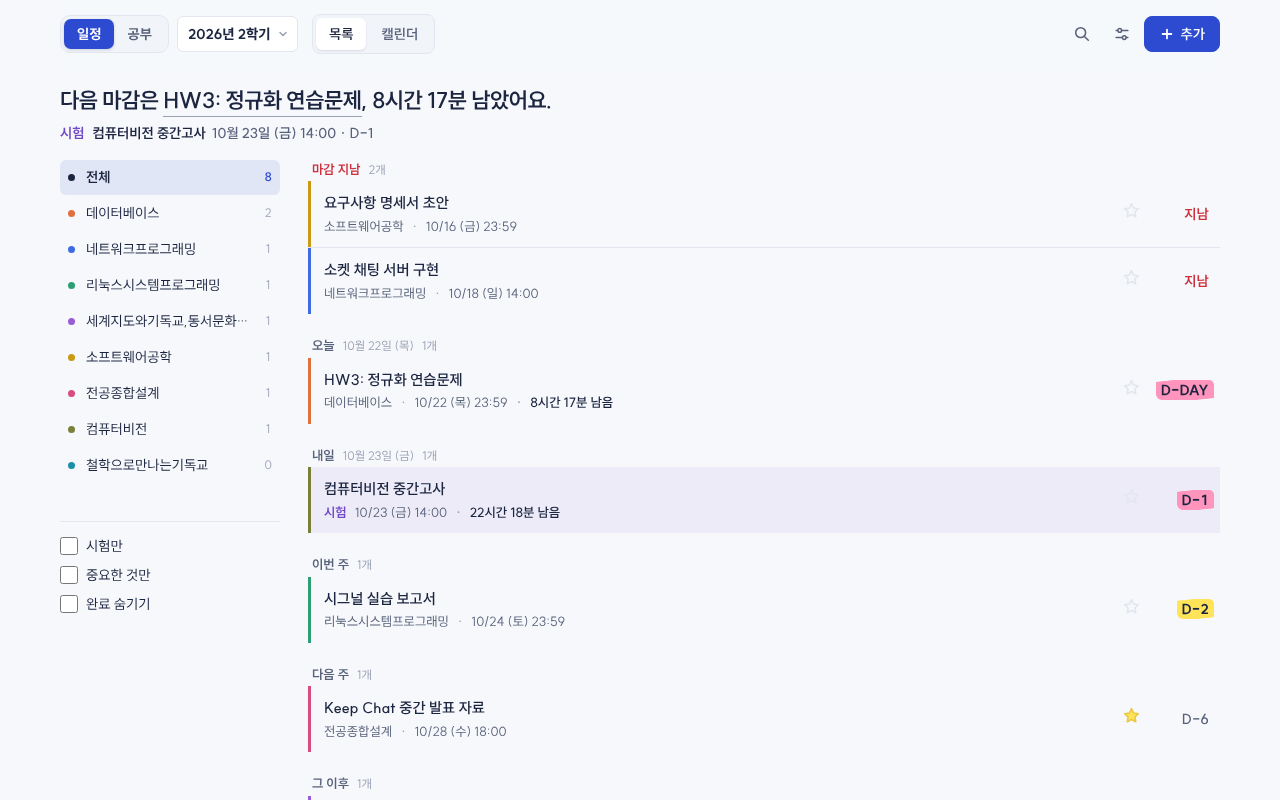
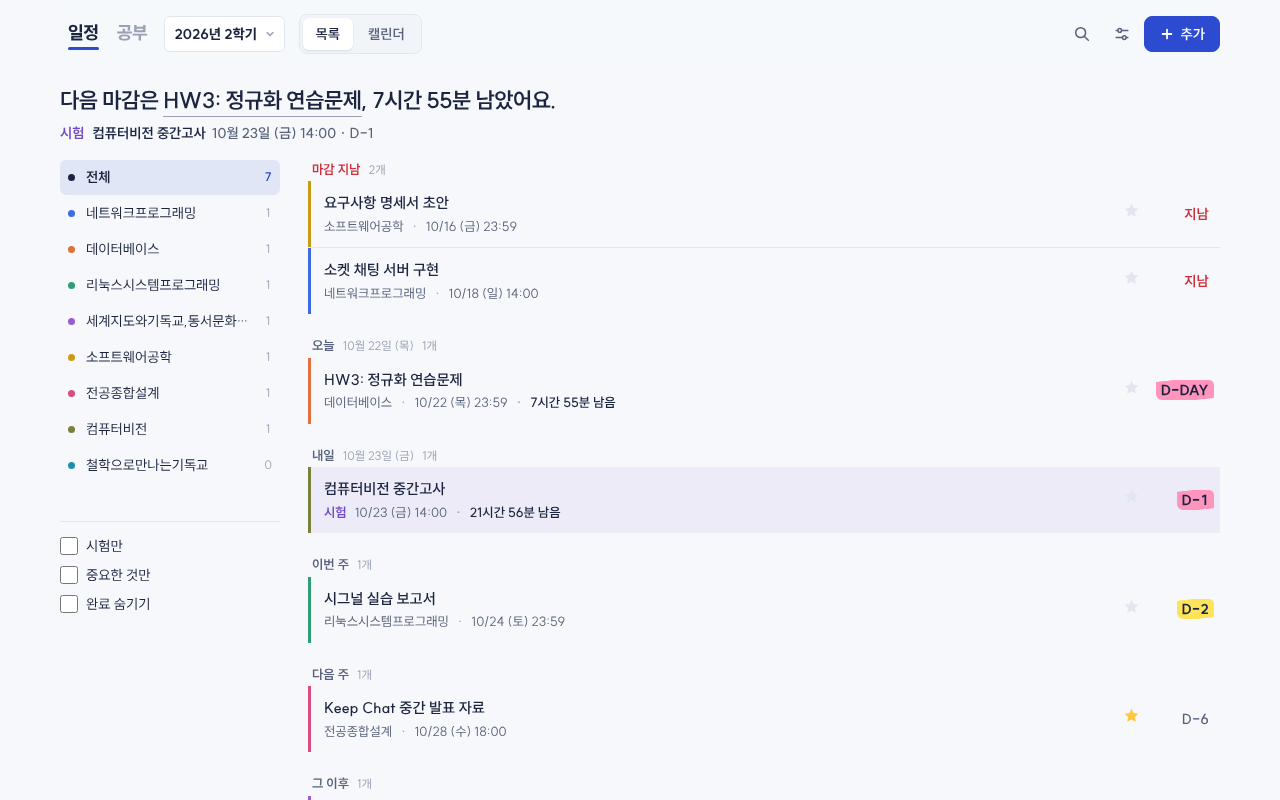
fix: 과목 개수·별·설정 스크롤 고치고 할 일 추가, 일정·공부를 글자 탭으로
- 과목 목록 개수에서 끝난 시험 빼기
- 별은 테두리 없이 채운 별만 (꺼짐 옅은 회색 · 켜짐 노랑)
- 추가 화면에 '할 일' 종류 (단축키 T), dday_upsert가 kind todo 저장
- 일정 · 공부는 큰 글자 탭으로 바꿔 목록 · 캘린더 탭과 겹쳐 보이지 않게
- 설정 본문의 flex 줄어듦 때문에 백업 · 단축키가 잘리던 것 수정
- 오늘 공부의 D-7 항목을 과목 | 이름 | D-day | ▶ 로

Claude-Session: https://claude.ai/code/session_01VYtpNtxSMGWfGLeovZEFXd

diff --git a/assets/js/app.js b/assets/js/app.js
@@ -237,10 +237,11 @@ function renderNext() {
 /* ───── 왼쪽 필터 ───── */
 function subjectsWithCounts() {
   const map = new Map();
+  const now = new Date();
   for (const t of scopedTasks()) {
     const k = t.subject || '';
     const v = map.get(k) || { total: 0, pending: 0 };
-    v.total++; if (!t.done) v.pending++;
+    v.total++; if (groupOf(t, now) !== 'done') v.pending++;   // 끝난 시험은 남은 일로 세지 않음
     map.set(k, v);
   }
   const sorted = [...map.entries()].sort((a, b) => (b[1].pending - a[1].pending) || a[0].localeCompare(b[0], 'ko'));
@@ -254,7 +255,8 @@ function renderRail() {
   const rail = $('#rail');
   const cur = state.prefs.subject;
   const subjects = subjectsWithCounts();
-  const pendingAll = scopedTasks().filter(t => !t.done).length;
+  const now = new Date();
+  const pendingAll = scopedTasks().filter(t => groupOf(t, now) !== 'done').length;
 
   const item = (label, value, count, color) => h('li', null,
     h('button', {
@@ -401,9 +403,12 @@ function renderView() {
   document.body.classList.toggle('study-mode', studying);
   if (studying) document.body.classList.remove('search-open');
   $('#modeLabel').textContent = studying ? '공부' : '일정';
-  $('#modeBtn').setAttribute('aria-checked', studying ? 'true' : 'false');
-  $('#modeBtn').setAttribute('aria-label', studying ? '공부 모드 · 눌러서 일정으로' : '일정 모드 · 눌러서 공부로');
-  $$('#modeBtn .ms-opt').forEach(o => o.classList.toggle('on', o.dataset.m === (studying ? 'study' : 'plan')));
+  $('#modeBtn').dataset.mode = studying ? 'study' : 'plan';
+  $$('#modeBtn .ms-opt').forEach(o => {
+    const on = o.dataset.m === (studying ? 'study' : 'plan');
+    o.classList.toggle('on', on);
+    o.setAttribute('aria-selected', on ? 'true' : 'false');
+  });
   $('#planViews').hidden = studying;
   $('#studyViews').hidden = !studying;
   $('#btnFriends').hidden = !studying;
@@ -695,9 +700,9 @@ function setKind(kind, { isNew }) {
   const exam = kind === 'exam';
   $('#panel').classList.toggle('is-exam', exam);
   $$('#kindPicker button').forEach(b => b.setAttribute('aria-checked', b.dataset.kind === kind ? 'true' : 'false'));
-  const editing = !isNew && state.tasks.find(x => x.id === ui.editingId);
-  $('#panelTitle').textContent = isNew ? (exam ? '새 시험' : '새 과제') : (exam ? '시험 수정' : editing && editing.kind === 'todo' ? '할 일' : '과제 수정');
-  $('#fTitle').placeholder = exam ? '시험 이름' : '과제 이름';
+  const name = exam ? '시험' : kind === 'todo' ? '할 일' : '과제';
+  $('#panelTitle').textContent = isNew ? `새 ${name}` : `${name} 수정`;
+  $('#fTitle').placeholder = exam ? '시험 이름' : kind === 'todo' ? '할 일 (예: 3주차 강의 듣기)' : '과제 이름';
   $('#fMemo').placeholder = exam ? '시험 범위, 준비물' : '메모';
   renderDoneBtn();
   // 새로 만들 때 시각 기본값만 템플릿에 맞춤 (사용자가 바꾼 값은 유지)
@@ -732,7 +737,7 @@ function openPanel(task, presetDay, kind) {
   $('#fLocation').value = task ? task.location || '' : '';
   $('#fEnd').value = task && task.endAt ? toTimeInput(new Date(task.endAt)) : '';
   refreshPickLabels();
-  setKind(task ? (isExam(task) ? 'exam' : 'assignment') : (kind || 'assignment'), { isNew: !task });
+  setKind(task ? (isExam(task) ? 'exam' : task.kind === 'todo' ? 'todo' : 'assignment') : (kind || 'assignment'), { isNew: !task });
   $('#kindPicker').hidden = !!(task && task.source === 'canvas');   // 스마트캠퍼스 과제는 종류 고정
   $('#fStudyBtn').hidden = !task || !!task.done || groupOf(task) === 'done';
   $('#examNames').replaceChildren(...EXAM_NAMES.map(n => h('button', {
@@ -793,14 +798,14 @@ function renderDoneBtn() {
   const done = $('#fDone').checked;
   btn.classList.toggle('is-done', done);
   const t = state.tasks.find(x => x.id === ui.editingId);
-  btn.textContent = done ? '완료 취소' : (t && (t.missing || t.kind === 'todo') ? '완료로 표시' : '제출 완료');
+  btn.textContent = done ? '완료 취소' : ((t && t.missing) || ui.kind === 'todo' ? '완료로 표시' : '제출 완료');
 }
 
 function savePanel() {
   const title = $('#fTitle').value.trim();
   const msg = $('#panelMsg');
   msg.className = 'msg err';
-  if (!title) { msg.textContent = '과제명을 적어 주세요'; $('#fTitle').focus(); return; }
+  if (!title) { msg.textContent = ui.kind === 'exam' ? '시험 이름을 적어 주세요' : ui.kind === 'todo' ? '할 일을 적어 주세요' : '과제명을 적어 주세요'; $('#fTitle').focus(); return; }
   if (!$('#fDate').value) { msg.textContent = '날짜를 골라 주세요'; $('#fDateBtn').focus(); return; }
   const due = new Date(`${$('#fDate').value}T${$('#fTime').value || '23:59'}`);
   if (isNaN(due)) { msg.textContent = '마감 날짜를 다시 확인해 주세요'; return; }
@@ -813,7 +818,7 @@ function savePanel() {
     endAt = end.toISOString();
   }
   const fields = {
-    kind: exam ? 'exam' : (state.tasks.find(t => t.id === ui.editingId)?.kind === 'todo' ? 'todo' : 'assignment'),
+    kind: exam ? 'exam' : ui.kind === 'todo' ? 'todo' : 'assignment',
     title: title.slice(0, 200),
     subject: subjPick.value.slice(0, 40),
     due: due.toISOString(),
@@ -1047,7 +1052,7 @@ function bind() {
     renderView();
   });
   $$('.views button').forEach(b => b.addEventListener('click', () => setView(b.dataset.view)));
-  $('#modeBtn').addEventListener('click', toggleMode);
+  $$('#modeBtn .ms-opt').forEach(o => o.addEventListener('click', () => { if ((o.dataset.m === 'study') !== (state.prefs.mode === 'study')) toggleMode(); }));
   $('#btnFriends').addEventListener('click', openFriends);
   $('#friendsClose').addEventListener('click', () => $('#friendsDialog').close());
   $('#search').addEventListener('input', e => { ui.query = e.target.value; renderView(); });
@@ -1233,6 +1238,7 @@ function bind() {
     if (isStudying() && studyKey(e)) return;
     if (e.key === 'n' || e.key === 'N') { e.preventDefault(); openPanel(null, null, 'assignment'); }
     else if (e.key === 'e' || e.key === 'E') { e.preventDefault(); openPanel(null, null, 'exam'); }
+    else if (e.key === 't' || e.key === 'T') { e.preventDefault(); openPanel(null, null, 'todo'); }
     else if (e.key === '/' && !isStudying()) { e.preventDefault(); openSearch(); }
     else if (e.key === 's' || e.key === 'S') toggleMode();
     else if (e.key === '1') setView(isStudying() ? 'today' : 'list');

diff --git a/assets/style.css b/assets/style.css
@@ -1592,24 +1592,24 @@ svg.filled { fill: currentColor; stroke: none; }
 .cr-move svg { width: 16px; height: 16px; }
 
 /* ═════ 일정 / 공부 전환: 두 칸 스위치, 지금 모드가 색으로 칠해짐 ═════ */
-.mode-switch {
-  position: relative; flex-shrink: 0; display: inline-grid; grid-template-columns: 1fr 1fr; align-items: center;
-  height: 38px; padding: 3px; border: 1px solid var(--rule); border-radius: 10px; background: var(--sheet-2);
-  cursor: pointer; font: 750 14px var(--font);
+/* 일정 · 공부: 보기 탭(목록 · 캘린더)과 겹쳐 보이지 않게 큰 글자 두 개로 (지금 모드만 진하게 + 밑줄) */
+.mode-tabs { display: inline-flex; align-items: center; gap: 2px; }
+.ms-opt {
+  position: relative; border: 0; background: none; cursor: pointer; font: inherit;
+  padding: 4px 8px 6px; font-size: 18px; font-weight: 800; letter-spacing: -0.02em; line-height: 1.2;
+  color: var(--pencil-2); border-radius: 8px; transition: color 150ms;
 }
-.mode-switch::before {
-  content: ''; position: absolute; top: 3px; bottom: 3px; left: 3px; width: calc(50% - 3px); border-radius: 7px;
-  background: var(--pen); box-shadow: 0 1px 3px rgba(28, 37, 64, 0.18); transition: transform 180ms ease, background-color 180ms;
+.ms-opt:hover { color: var(--pencil); }
+.ms-opt.on { color: var(--ink); cursor: default; }
+.ms-opt::after {
+  content: ""; position: absolute; left: 8px; right: 8px; bottom: 0; height: 3px; border-radius: 2px;
+  background: var(--pen); transform: scaleX(0); transition: transform 180ms;
 }
-.mode-switch[aria-checked="true"]::before { transform: translateX(100%); background: var(--green); }
-.ms-opt { position: relative; z-index: 1; padding: 0 13px; text-align: center; line-height: 30px; color: var(--pencil); transition: color 180ms; }
-.ms-opt.on { color: #fff; }
-:root[data-theme="dark"] .ms-opt.on { color: #10141F; }
-@media (prefers-color-scheme: dark) { :root:not([data-theme="light"]) .ms-opt.on { color: #10141F; } }
-.mode-switch:hover .ms-opt:not(.on) { color: var(--ink); }
-.mode-switch:focus-visible { outline: 2px solid var(--pen); outline-offset: 2px; }
-@media (max-width: 640px) { .ms-opt { padding: 0 10px; font-size: 13.5px; } }
-@media (max-width: 380px) { .ms-opt { padding: 0 8px; } }
+.ms-opt[data-m="study"]::after { background: var(--green); }
+.ms-opt.on::after { transform: scaleX(1); }
+.ms-opt:focus-visible { outline: 2px solid var(--pen); outline-offset: 1px; }
+@media (max-width: 640px) { .ms-opt { font-size: 16.5px; padding: 4px 6px 6px; } .ms-opt::after { left: 6px; right: 6px; } }
+@media (prefers-reduced-motion: reduce) { .ms-opt::after { transition: none; } }
 /* 폰: 학기 고르기는 필터 안으로 */
 .flt-sem { display: none; align-items: center; justify-content: space-between; gap: 10px; padding: 10px 16px; border-bottom: 1px solid var(--rule); font-size: 14px; font-weight: 600; }
 .flt-sem select { height: 34px; padding: 0 26px 0 10px; border: 1px solid var(--rule); border-radius: 8px; appearance: none; font: 650 14px var(--font); color: var(--ink);
@@ -1652,3 +1652,22 @@ svg.filled { fill: currentColor; stroke: none; }
   .amb-btn span { display: none; }
   .amb-btn { padding: 0 10px; min-height: 40px; }
 }
+
+/* ═════ 별: 테두리 없이 채운 별만 (꺼짐은 옅은 회색, 켜짐은 노랑) ═════ */
+:root { --star: #FFC83D; }
+@media (prefers-color-scheme: dark) { :root:not([data-theme="light"]) { --star: #E8C440; } }
+:root[data-theme="dark"] { --star: #E8C440; }
+.star-btn svg, .row .star-btn svg, .star-toggle svg { fill: currentColor; stroke: none; }
+.star-btn, .row .star-btn, .star-toggle { color: var(--rule); }
+.star-btn:hover, .row:hover .star-btn, .star-toggle:hover { color: var(--pencil-2); }
+.star-btn[aria-pressed="true"], .row .star-btn[aria-pressed="true"], .star-toggle[aria-pressed="true"],
+.row:hover .star-btn[aria-pressed="true"] { color: var(--star); }
+.star-btn[aria-pressed="true"] svg, .row .star-btn[aria-pressed="true"] svg, .star-toggle[aria-pressed="true"] svg { fill: var(--star); stroke: none; }
+.star-mark { color: var(--star); filter: none; }
+/* 설정 본문은 세로 flex라 펼친 칸이 줄어들며 잘렸음 → 줄어들지 않게 두고 본문이 스크롤 */
+#settings .settings-body > * { flex-shrink: 0; }
+/* 오늘 공부: D-7 안의 과제 · 시험도 과목 | 이름 | D-day | ▶ */
+.plan-task.link { all: unset; min-width: 0; overflow: hidden; text-overflow: ellipsis; white-space: nowrap; color: var(--pencil); font-size: 14px; cursor: pointer; }
+.plan-task.link.solo { color: var(--ink); font-size: inherit; font-weight: 650; }
+.plan-task.link:hover { text-decoration: underline; color: var(--ink); }
+.plan-task.link:focus-visible { outline: 2px solid var(--pen); border-radius: 3px; }

diff --git a/index.html b/index.html
@@ -55,11 +55,11 @@
 <div class="app" id="viewApp" hidden>
   <header class="topbar">
     <div class="semester lead">
-      <button type="button" class="mode-switch" id="modeBtn" role="switch" aria-checked="false" title="일정 · 공부 바꾸기 (S)">
-        <span class="sr-only">지금: </span><span class="sr-only" id="modeLabel">일정</span>
-        <span class="ms-opt" data-m="plan" aria-hidden="true">일정</span>
-        <span class="ms-opt" data-m="study" aria-hidden="true">공부</span>
-      </button>
+      <div class="mode-tabs" id="modeBtn" role="tablist" aria-label="일정 · 공부 (S로 바꾸기)">
+        <span class="sr-only" id="modeLabel">일정</span>
+        <button type="button" role="tab" class="ms-opt" data-m="plan" title="일정 (S)">일정</button>
+        <button type="button" role="tab" class="ms-opt" data-m="study" title="공부 (S)">공부</button>
+      </div>
       <label class="sem-select">
         <span class="sr-only">학기</span>
         <select id="semester"></select>
@@ -103,7 +103,7 @@
       <button class="btn icon ghost" id="btnSettings" title="설정" aria-label="설정">
         <svg viewBox="0 0 20 20" aria-hidden="true"><path d="M3.5 6h13M3.5 14h13"/><circle cx="7.5" cy="6" r="2" class="fill-sheet"/><circle cx="12.5" cy="14" r="2" class="fill-sheet"/></svg>
       </button>
-      <button class="btn primary" id="btnNew" title="추가 (N: 과제, E: 시험)">
+      <button class="btn primary" id="btnNew" title="추가 (N: 과제, E: 시험, T: 할 일)">
         <svg viewBox="0 0 20 20" aria-hidden="true"><path d="M10 4.5v11M4.5 10h11"/></svg><span class="new-label">추가</span>
       </button>
     </div>
@@ -136,6 +136,7 @@
     <div class="segmented kind-picker" id="kindPicker" role="radiogroup" aria-label="종류">
       <button type="button" role="radio" data-kind="assignment">과제</button>
       <button type="button" role="radio" data-kind="exam">시험</button>
+      <button type="button" role="radio" data-kind="todo">할 일</button>
     </div>
     <div class="panel-tools">
       <button type="button" class="btn icon ghost study-start" id="fStudyBtn" title="이걸로 공부 시작" aria-label="이걸로 공부 시작" hidden>
@@ -375,7 +376,7 @@
           </div>
         </div>
         <div class="set-row">
-          <p class="help keys"><kbd>N</kbd> 과제 <kbd>E</kbd> 시험 <kbd>/</kbd> 검색 <kbd>S</kbd> 일정 · 공부 <kbd>1</kbd><kbd>2</kbd> 탭 <kbd>Space</kbd> 타이머 <kbd>Esc</kbd> 닫기</p>
+          <p class="help keys"><kbd>N</kbd> 과제 <kbd>E</kbd> 시험 <kbd>T</kbd> 할 일 <kbd>/</kbd> 검색 <kbd>S</kbd> 일정 · 공부 <kbd>1</kbd><kbd>2</kbd> 탭 <kbd>Space</kbd> 타이머 <kbd>Esc</kbd> 닫기</p>
         </div>
       </div>
     </details>

diff --git a/assets/js/study.js b/assets/js/study.js
@@ -640,22 +640,21 @@ function renderPlans() {
       h('button', { type: 'button', class: 'btn icon ghost sm-icon row-x', title: '지우기', 'aria-label': `${p.subject || memo} 지우기`, onclick: () => removePlan(p) }, xIcon()));
   });
 
-  // 7일 안의 과제 · 시험 (최근 2주 그 과목 공부 시간)
+  // 7일 안의 과제 · 시험: 과목 | 과제 · 시험 이름 | D-day | ▶ (내가 넣은 줄과 같은 칸에 맞춤)
   const now = new Date();
-  const since = dayStart(addDays(studyDate(), -13));
   const soon = state.tasks
     .filter(t => !t.done && new Date(t.due) > now && Math.round((startOfDay(new Date(t.due)) - startOfDay(now)) / DAY) <= 7)
     .sort((a, b) => new Date(a.due) - new Date(b.due));
   const upcoming = soon.map(t => {
-    let sec = t.subject ? allSessions().filter(s => s.subject === t.subject && new Date(s.startedAt) >= since).reduce((a, s) => a + s.seconds, 0) : 0;
-    if (timer.phase === 'focus' && t.subject && timer.subject === t.subject) sec += runningFocusSec();
     const nowT = !idle && timer.taskId === t.id;
+    const name = t.title || displayTitle(t);
     return h('li', { class: `plan soon${isExam(t) ? ' exam' : ''}${nowT ? ' now' : ''}`, style: { '--c': subjectColor(t.subject) } },
       h('span', { class: 'plan-name' },
-        h('button', { type: 'button', class: 'plan-subj link', onclick: () => ctx.openTask(t) }, displayTitle(t))),
+        t.subject ? h('span', { class: 'plan-subj' }, t.subject) : null,
+        h('button', { type: 'button', class: `plan-task link${t.subject ? '' : ' solo'}`, title: '눌러서 자세히 보기', onclick: () => ctx.openTask(t) }, name)),
       h('span', { class: 'plan-dday' }, dday(t, now).label),
-      h('span', { class: 'plan-time', title: '최근 2주 이 과목 공부' }, sec ? fmtSpent(sec) : ''),
-      playBtn(displayTitle(t), { subject: t.subject, taskId: t.id, label: displayTitle(t) }),
+      h('span', { class: 'plan-time' }),
+      playBtn(name, { subject: t.subject, taskId: t.id, label: displayTitle(t) }),
       h('span', { class: 'sm-icon' }));
   });
 

diff --git a/sw.js b/sw.js
@@ -1,7 +1,7 @@
 // 앱 화면 파일만 캐시해서 오프라인에서도 열리게 한다.
 // 과제 데이터(Supabase 호출)는 캐시하지 않는다. 항상 네트워크 우선.
 
-const CACHE = 'dday-shell-v25';
+const CACHE = 'dday-shell-v26';
 const SHELL = [
   './',
   'index.html',

diff --git a/README.md b/README.md
@@ -32,6 +32,7 @@
 - 목록과 캘린더에서 과제와 구분해 표시하고, "시험만" 보기 제공
 
 **스마트캠퍼스 강의 영상 (할 일)**
+- 추가 → 할 일로 직접 넣을 수도 있어요 (완료는 "완료로 표시")
 - 토큰을 연결하면 아직 안 본 강의 영상을 "할 일"로 가져와요 (수강 기한이 마감, 다 보면 저절로 완료). 과제 · 시험과 따로 초록 "할 일" 표시
 
 **스마트캠퍼스 공지**
@@ -55,9 +56,9 @@
 - 알림을 누르면 그 과제가 열린 채로 앱이 떠요
 - 노션 임베드 안에서는 권한을 받을 수 없어서 "새 창에서 열기"로 안내해요. 아이폰은 홈 화면에 추가한 앱에서만 켤 수 있어요(iOS 16.4 이상)
 
-**공부 모드** (왼쪽 위 `일정 | 공부` 스위치, 단축키 `S`)
+**공부 모드** (왼쪽 위 `일정` `공부` 글자, 단축키 `S`)
 - 탭이 일정 모드는 목록 · 캘린더, 공부 모드는 오늘 · 기록
-- 오늘 · 왼쪽: 타이머(스톱워치, 25분 집중 · 5분 휴식, 50분 · 10분. 일시정지 없이 시작 · 끝내기만, 버튼은 상단바 친구 버튼 왼쪽, 고른 과목 색이 옅게 깔린 상자)와 "오늘 공부". 오늘 공부에는 내가 넣은 과목(과목만 골라도 되고 메모는 선택)과 D-7 안의 과제 · 시험(최근 2주 그 과목 공부 시간)이 한 줄씩 나오고, ▶로 바로 시작
+- 오늘 · 왼쪽: 타이머(스톱워치, 25분 집중 · 5분 휴식, 50분 · 10분. 일시정지 없이 시작 · 끝내기만, 버튼은 상단바 친구 버튼 왼쪽, 고른 과목 색이 옅게 깔린 상자)와 "오늘 공부". 오늘 공부에는 내가 넣은 과목(과목만 골라도 되고 메모는 선택)과 D-7 안의 과제 · 시험(과목 | 이름 | D-day)이 한 줄씩 나오고, ▶로 바로 시작
 - 오늘 · 오른쪽: 오늘 공부 시간과 하루 목표, 하루 타임라인(한 시간이 한 줄, 줄 안의 위치가 분, 10분 격자), 그 아래 과목별 합계. 타이머 없이 공부한 시간은 타임라인의 빈 곳을 끌어서(폰은 눌러서) 범위를 고르고 시각 · 과목을 정해 기록. 타임라인의 공부 블록을 누르면 시작 · 끝 시각과 과목을 고치거나 지울 수 있어요. 기록 탭에서 고른 날(40일 안)에도 같은 방법으로
 - 기록: 주간(하루가 한 줄인 새벽 5시~다음 날 5시 띠)과 월간(목표 대비 진하기 달력). 기간 합계 · 하루 평균 · 공부한 날 · 과목별 시간, 날을 고르면 그날 타임라인과 기록(지우기 · 되돌리기)
 - 과제 · 시험 편집 화면의 "공부 시작"으로 바로 타이머 시작. 일정 모드에 있으면 위쪽에 남은 시간이 작게 보여요
@@ -78,7 +79,7 @@
 **그 밖에**
 - 스마트캠퍼스(Canvas) 과제 자동 가져오기 (아래 참고)
 - 밝게 / 어둡게 / 시스템 설정 테마
-- 단축키: `S` 일정 ↔ 공부, `1` `2` 탭(목록 · 캘린더 / 오늘 · 기록), `N` 새 과제, `E` 새 시험, `/` 검색, 공부 · 오늘에서 `Space` 타이머 시작 · 끝내기, `Esc` 닫기
+- 단축키: `S` 일정 ↔ 공부, `1` `2` 탭(목록 · 캘린더 / 오늘 · 기록), `N` 새 과제, `E` 새 시험, `T` 새 할 일, `/` 검색, 공부 · 오늘에서 `Space` 타이머 시작 · 끝내기, `Esc` 닫기
 - 앱으로 설치(PWA): 홈 화면 · 작업 표시줄 아이콘, 오프라인에서도 마지막으로 불러온 과제 보기, 앱 아이콘 길게 눌러 새 과제 · 새 시험 · 캘린더 바로가기
 - 좁은 화면에서는 왼쪽 필터가 필터 버튼 하나로 바뀌고(과목 고르기 + 시험만 · 중요만 · 완료 숨기기 스위치), 양쪽 칸이 위아래로 쌓일 때는 회색 띠로 구분
 - 백업 텍스트 복사와 가져오기
